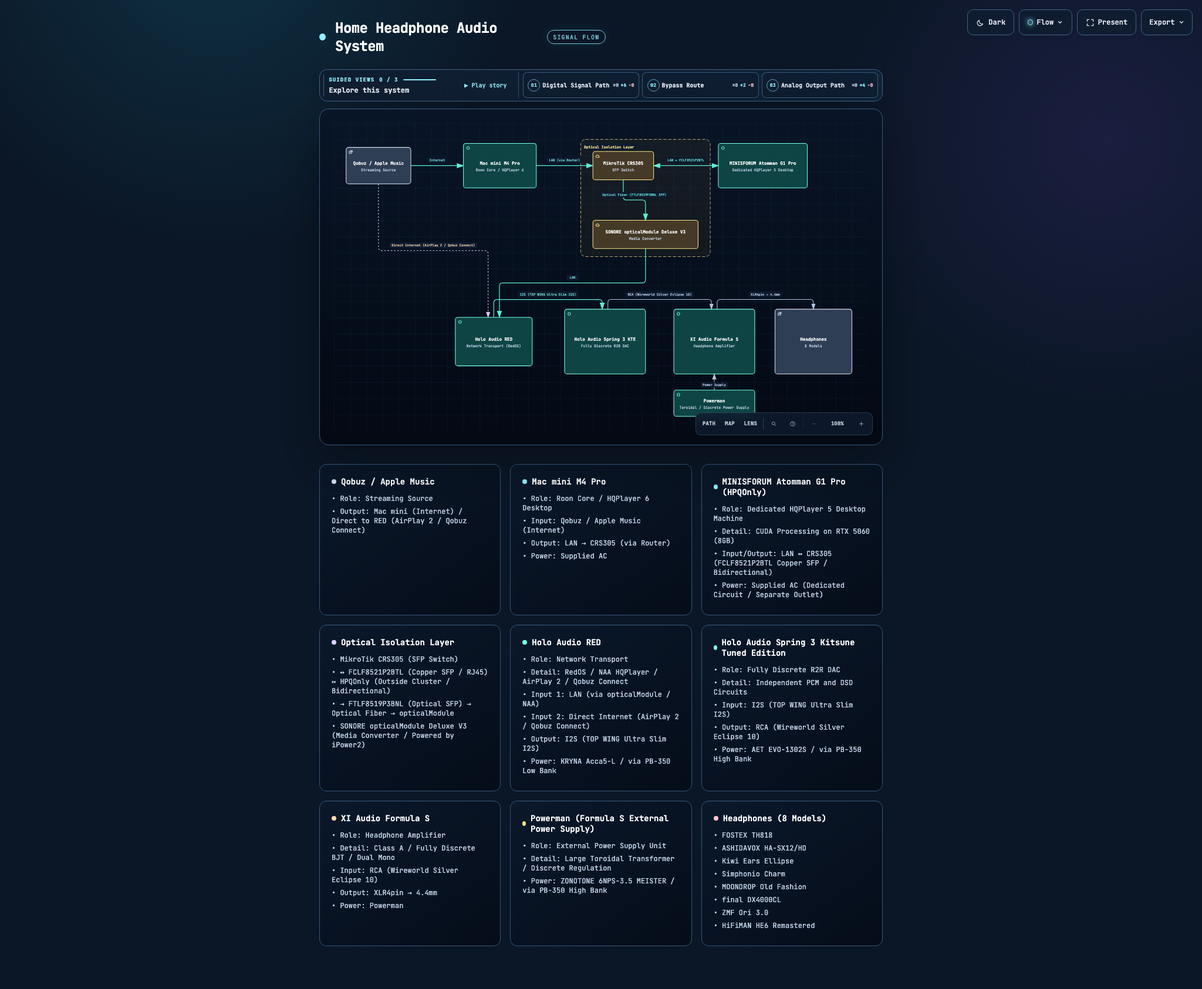
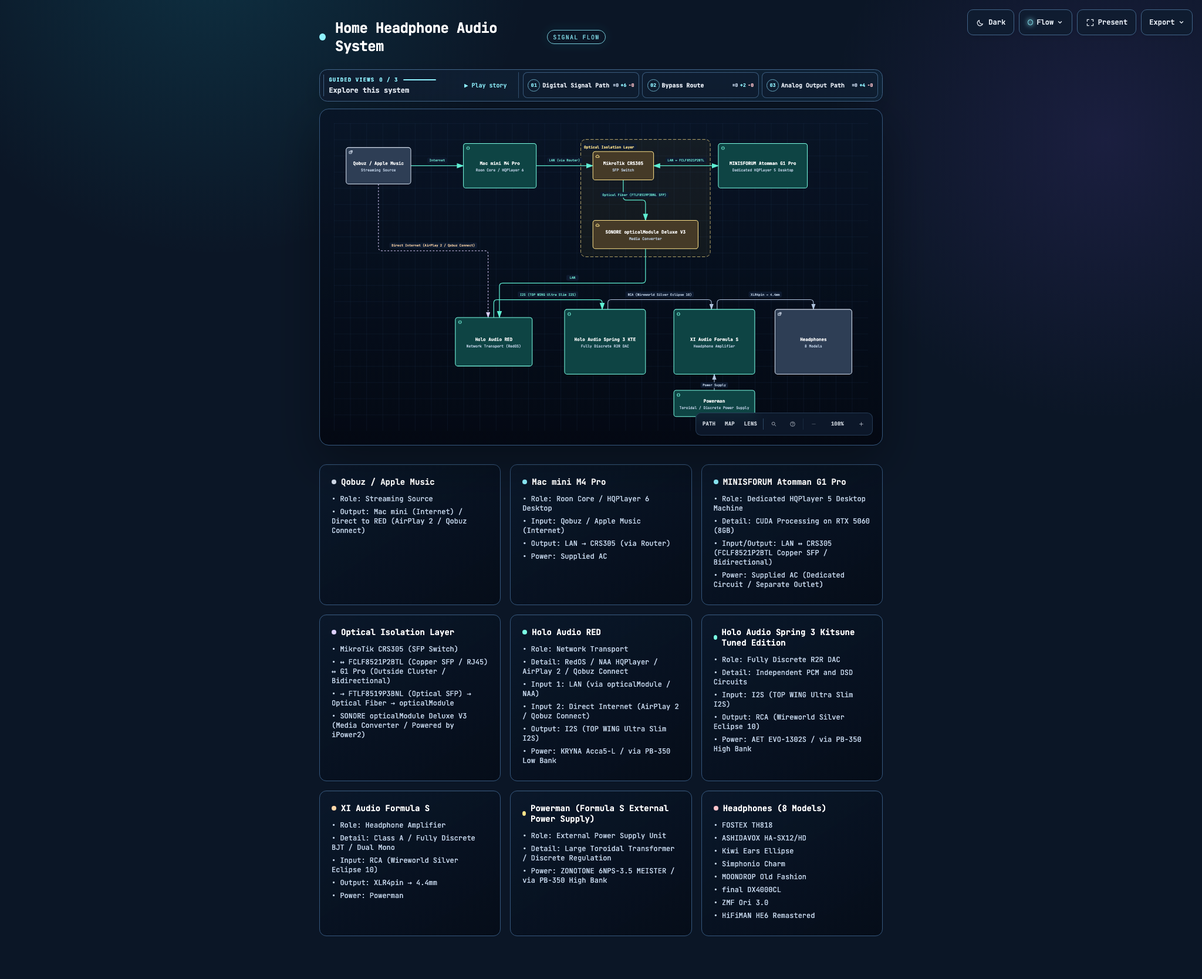
Remove HPQOnly machine name

diff --git a/index.html b/index.html
@@ -4959,7 +4959,7 @@
       </div>
     </div>
 
-    <script id="archify-guided-views-data" type="application/json">[{"id":"digital-path","label":"Digital Signal Path","focus":["macmini","crs305","hpq","optmod","red","spring3"],"note":"Digital path from the Mac mini through the CRS305, branching to HPQOnly and the RED/DAC chain"},{"id":"bypass-route","label":"Bypass Route","focus":["src","red"],"note":"The RED receives Qobuz or Apple Music directly via AirPlay 2 or Qobuz Connect; the Mac mini provides control only"},{"id":"analog-path","label":"Analog Output Path","focus":["spring3","formulas","powerman","headphones"],"note":"Analog path from the DAC through the headphone amplifier to the headphones"}]</script>
+    <script id="archify-guided-views-data" type="application/json">[{"id":"digital-path","label":"Digital Signal Path","focus":["macmini","crs305","hpq","optmod","red","spring3"],"note":"Digital path from the Mac mini through the CRS305, branching to G1 Pro and the RED/DAC chain"},{"id":"bypass-route","label":"Bypass Route","focus":["src","red"],"note":"The RED receives Qobuz or Apple Music directly via AirPlay 2 or Qobuz Connect; the Mac mini provides control only"},{"id":"analog-path","label":"Analog Output Path","focus":["spring3","formulas","powerman","headphones"],"note":"Analog path from the DAC through the headphone amplifier to the headphones"}]</script>
 
     <script id="archify-i18n-data" type="application/json">{"locale":"en","messages":{"viewer.kind.frontend":"Frontend","viewer.kind.backend":"Backend","viewer.kind.database":"Database","viewer.kind.cloud":"Cloud","viewer.kind.security":"Security","viewer.kind.messagebus":"Message bus","viewer.kind.external":"External","viewer.kind.neutral":"Neutral","viewer.kind.node":"Node","viewer.kind.start":"Start","viewer.kind.active":"Active","viewer.kind.waiting":"Waiting","viewer.kind.decision":"Decision","viewer.kind.success":"Success","viewer.kind.failure":"Failure","viewer.toolbar.actions":"Diagram actions","viewer.theme.toggle.title":"Toggle theme (T)","viewer.theme.toggle":"Toggle color theme","viewer.theme.dark":"Dark","viewer.theme.light":"Light","viewer.preset.choose.title":"Choose visual style (S cycles)","viewer.preset.choose":"Choose visual style","viewer.preset.style":"Style","viewer.preset.menu":"Visual style","viewer.preset.identity":"Visual identity","viewer.preset.cycles":"S cycles","viewer.preset.classic":"Classic","viewer.preset.classic.short":"Classic","viewer.preset.classic.hint":"Stable technical default","viewer.preset.flow":"Signal Flow","viewer.preset.flow.short":"Flow","viewer.preset.flow.hint":"Motion-forward presentation","viewer.preset.blueprint":"Blueprint","viewer.preset.blueprint.hint":"Engineering review","viewer.preset.editorial":"Editorial","viewer.preset.editorial.hint":"Publication and launch notes","viewer.preset.badge.signalFlow":"SIGNAL FLOW","viewer.preset.badge.blueprint":"BLUEPRINT / REV 01","viewer.preset.badge.editorial":"EDITORIAL / FIELD NOTE","viewer.preset.badge.editorialPlate":"ARCHIFY / PLATE 04","viewer.preset.current":"Visual style: {style}. Choose visual style","viewer.motion.live":"Live","viewer.motion.still":"Still","viewer.motion.pause":"Pause motion","viewer.motion.resume":"Resume motion","viewer.motion.reduced":"Motion paused by reduced-motion preference","viewer.motion.hidden":"Motion paused while this page is hidden","viewer.motion.yielding":"Pause motion; currently yielding to {owner}","viewer.motion.yielding.title":"Live preview enabled · yielding to {owner}","viewer.owner.story":"the guided story","viewer.owner.chapter":"the active chapter","viewer.owner.chapterPreview":"the chapter delta preview","viewer.owner.handoff":"the chapter handoff","viewer.owner.route":"Route Probe","viewer.owner.lens":"Semantic Lens","viewer.owner.relationship":"Relationship Preview","viewer.owner.intent":"Intent Trace","viewer.owner.focus":"semantic focus","viewer.owner.legend":"legend preview","viewer.owner.reader":"reader interaction","viewer.present.enter":"Enter presentation stage","viewer.present.enter.title":"Presentation stage (F)","viewer.present.exit":"Exit presentation stage","viewer.present.exit.title":"Exit presentation stage (F or Escape)","viewer.present.present":"Present","viewer.present.exit.label":"Exit","viewer.export.button":"Export","viewer.export.button.title":"Export diagram (E)","viewer.export.diagram":"Export diagram","viewer.export.menu":"Export","viewer.export.subtitle":"Portable, clean outputs","viewer.export.share":"Share","viewer.export.shareCard":"Share Card","viewer.export.routeShareCard":"Route Share Card","viewer.export.reachShareCard":"Reach Share Card","viewer.export.copyShareCard":"Copy Share Card","viewer.export.copyDiagram":"Copy diagram","viewer.export.clipboardPng":"PNG to clipboard","viewer.export.raster":"Raster images","viewer.export.image":"Image","viewer.export.lossless":"Lossless image","viewer.export.compact":"Compact image","viewer.export.modern":"Modern image","viewer.export.vectorMotion":"Vector and motion","viewer.export.vectorMotion.heading":"Vector \u0026 motion","viewer.export.editable":"Editable vector","viewer.export.motion6s":"6s motion","viewer.export.unsupported":"Not supported by this browser","viewer.export.clipboardUnsupported":"Clipboard image write not supported by this browser","viewer.export.clipboardUnsupported.period":"Clipboard image write not supported by this browser.","viewer.export.clipboardUnsupported.short":"Clipboard image write not supported in this browser.","viewer.export.motionUnavailable":"Motion capture unavailable in this browser","viewer.export.webmUnavailable":"WebM unavailable in this browser","viewer.export.failed":"Export failed: {message}","viewer.export.unknownVariant":"Unknown Share Card variant: {variant}","viewer.export.routeRequired":"Trace a route before exporting a Route Share Card","viewer.export.reachRequired":"Trace authored reach before exporting a Reach Share Card","viewer.export.unknown":"unknown","viewer.export.routeFailed":"Route Share Card export failed: {message}","viewer.export.reachFailed":"Reach Share Card export failed: {message}","viewer.export.copyFailed":"Copy failed: {message}","viewer.export.copiedPng":"Copied PNG to clipboard","viewer.export.copiedShare":"Copied Share Card","viewer.export.downloadedShare":"Downloaded Share Card","viewer.export.downloadedRoute":"Downloaded Route Share Card","viewer.export.downloadedReach":"Downloaded Reach Share Card","viewer.export.downloadedWebm":"Downloaded WebM","viewer.export.recording":"Recording 6 seconds of motion…","viewer.export.card.routeSummary.one":"Route: {source} → {target} · {count} directed hop","viewer.export.card.routeSummary.other":"Route: {source} → {target} · {count} directed hops","viewer.export.card.reachSummary":"Authored {direction} from {origin} · {nodes} · {links} · max {hops}","viewer.export.card.node.one":"{count} node","viewer.export.card.node.other":"{count} nodes","viewer.export.card.link.one":"{count} link","viewer.export.card.link.other":"{count} links","viewer.export.card.hop.one":"{count} hop","viewer.export.card.hop.other":"{count} hops","viewer.export.card.routeBadge":"ARCHIFY · ROUTE · {hops}","viewer.export.card.reachBadge":"ARCHIFY · {direction} REACH","viewer.export.card.defaultBadge":"ARCHIFY · {preset} · {theme}","viewer.export.direction.upstream":"Upstream","viewer.export.direction.downstream":"Downstream","viewer.export.error.canvasUnavailable":"Canvas unavailable for {label}","viewer.export.error.contextUnavailable":"2D canvas context unavailable for {label}","viewer.export.error.toBlobUnavailable":"canvas.toBlob unavailable for {label}","viewer.export.error.toBlobNull":"canvas.toBlob returned no data for {label}","viewer.export.error.variantsCombined":"Share Card variants cannot be combined","viewer.export.error.viewerState":"Share Card export could not remove temporary viewer state","viewer.export.error.routeState":"Route Card export could not preserve the resolved route safely","viewer.export.error.reachState":"Reach Card export could not preserve authored reach safely","viewer.export.error.webmRequirements":"WebM motion export requires a trace animation and browser MediaRecorder support","viewer.export.error.mediaRecorder":"MediaRecorder failed","viewer.export.error.emptyWebm":"MediaRecorder produced an empty WebM","viewer.export.error.webmBackground":"SVG background could not be loaded for WebM export","viewer.guided.region":"Guided diagram views","viewer.guided.previous":"Previous guided view","viewer.guided.previous.title":"Previous guided view ([)","viewer.guided.next":"Next guided view","viewer.guided.next.title":"Next guided view (])","viewer.guided.views":"Guided views","viewer.guided.explore":"Explore this system","viewer.guided.intro":"Step through curated paths without changing the source diagram.","viewer.guided.trail":"Story trail","viewer.guided.beat":"Beat","viewer.guided.nextBeat":"Next","viewer.guided.play":"Play guided story","viewer.guided.play.title":"Play guided story (P)","viewer.guided.pause":"Pause guided story","viewer.guided.pause.title":"Pause guided story (P)","viewer.guided.replay":"Replay guided story","viewer.guided.replay.title":"Replay guided story (P)","viewer.guided.playStory":"Play story","viewer.guided.pauseStory":"Pause","viewer.guided.replayStory":"Replay story","viewer.guided.motionUnavailable":"Story playback unavailable while motion is Still","viewer.guided.enableMotion":"Switch motion to Live to play the guided story","viewer.guided.selectBeatLink":"Select a Story Beat to copy its exact link","viewer.guided.copyMoment":"Copy moment","viewer.guided.momentCopied":"Moment link copied","viewer.guided.momentCopyFailed":"Could not copy story moment link","viewer.guided.copied":"Copied","viewer.guided.copyFailed":"Copy failed","viewer.guided.showAll":"Show all","viewer.guided.showAll.aria":"Show entire diagram","viewer.guided.chapters":"Story chapters","viewer.guided.storyTrail":"Story trail for {label}: {count} beats","viewer.guided.chapter.open":"Open chapter {index} of {total}: {label}, {count} stops","viewer.guided.chapter.current":"Current chapter {index} of {total}: {label}, {count} stops","viewer.guided.chapter.selectedNodes":"{count} selected nodes","viewer.guided.chapter.stops":"{count} stops","viewer.guided.chapter.stop.one":"{count} stop","viewer.guided.chapter.stop.other":"{count} stops","viewer.guided.chapter.current.title":"{label} — current chapter, {count} stops","viewer.guided.chapter.delta.expanded":"{stay} stay, {enter} enter, {leave} leave","viewer.guided.chapter.delta.aria":"Open chapter {index} of {total}: {label}. Chapter focus delta: {delta}","viewer.guided.chapter.delta.title":"{label} — {delta} chapter focus","viewer.guided.handoff":"{from} → {to} · via {label}","viewer.guided.share.chapter":"Chapter {index} / {total}","viewer.guided.share.initial":"Chapter 01 / 01","viewer.guided.share.default":"Guided chapter","viewer.guided.state.ready":"Ready","viewer.guided.state.playing":"Playing","viewer.guided.state.settled":"Settled","viewer.guided.state.paused":"Paused","viewer.guided.state.pinned":"Pinned","viewer.guided.state.still":"Still","viewer.guided.share.step":"Step {index} / {total} · {label}","viewer.guided.share.staticMoment":"{step} · Static moment","viewer.guided.share.complete":"{count} steps complete · {note}","viewer.guided.share.settled":"Path settled for reading.","viewer.guided.share.staticPath":"{count} steps · Static path","viewer.guided.share.ready":"{count} steps · Ready","viewer.guided.share.aria":"{state} chapter {index} of {total}: {label}. {beat}. {route}","viewer.guided.beat.start":"Beat {index} / {total} · {label} · starting point","viewer.guided.beat.forward":"Beat {index} / {total} · {from} → {to}","viewer.guided.beat.reverse":"Beat {index} / {total} · {from} → {to} · reverse authored link","viewer.guided.beat.multiple":"Beat {index} / {total} · {from} ⇄ {to} · {count} authored links","viewer.guided.beat.group":"Beat {index} / {total} · {from} · {to} · grouped · no direct link","viewer.guided.beat.aria.prefix":"Story beat {index} of {total}: {label}. ","viewer.guided.beat.aria.start":"Starting point.","viewer.guided.beat.aria.forward":"From {from} through one authored forward relationship.","viewer.guided.beat.aria.reverse":"From {from}; the authored relationship points from {to} to {from}.","viewer.guided.beat.aria.multiple":"From {from} through {count} authored relationships; shown without arbitrary motion.","viewer.guided.beat.aria.group":"Grouped from {from} with no direct authored relationship.","viewer.guided.caption.start":"Starting point","viewer.guided.caption.grouped":"Grouped transition · no direct authored link","viewer.guided.caption.more":" +{count} more","viewer.guided.caption.reverse":"Reverse authored relationship","viewer.guided.caption.relationships":"{count} authored relationships","viewer.guided.caption.relationship":"Authored relationship","viewer.guided.caption.direction":"authored direction: {from} → {to}","viewer.guided.caption.starting":"Authored starting point","viewer.guided.beatLink":"Copy link to current story moment: Beat {index} of {total}: {label}","viewer.guided.noStory":"This diagram has no authored guided story.","viewer.guide.eyebrow":"Diagram guide","viewer.guide.close":"Close diagram guide","viewer.guide.inspecting":"Inspecting compiled semantics","viewer.guide.actions":"Diagram exploration actions","viewer.guide.find":"Find any node","viewer.guide.find.hint":"Search labels, responsibilities, kinds, and stable IDs.","viewer.guide.route":"Trace a route","viewer.guide.route.aria":"Trace a directed route","viewer.guide.route.hint":"Ask how two semantic nodes connect in authored direction.","viewer.guide.map":"See the whole system","viewer.guide.map.hint":"Open Semantic Radar with a live viewport and stable nodes.","viewer.guide.lens":"Compare semantic kinds","viewer.guide.lens.hint":"Count roles, reveal their traffic, and compare direct authored links.","viewer.guide.story":"Play the guided story","viewer.guide.story.hint":"Walk the authored chapters and real relationships.","viewer.guide.present":"Enter Presentation Stage","viewer.guide.present.hint":"Give the live diagram the viewport without changing export.","viewer.guide.shortcuts":"Additional keyboard shortcuts","viewer.guide.shortcut.export":"Export","viewer.guide.shortcut.theme":"Theme","viewer.guide.shortcut.style":"Style","viewer.guide.shortcut.reset":"Reset","viewer.guide.shortcut.zoomIn":"Zoom in","viewer.guide.shortcut.zoomOut":"Zoom out","viewer.guide.shortcut.close":"Close","viewer.guide.facts":"{nodes} · {relationships} · {views}","viewer.guide.fact.node.one":"{count} semantic node","viewer.guide.fact.node.other":"{count} semantic nodes","viewer.guide.fact.relationship.one":"{count} relationship","viewer.guide.fact.relationship.other":"{count} relationships","viewer.guide.fact.view.one":"{count} guided view","viewer.guide.fact.view.other":"{count} guided views","viewer.guide.story.available.one":"Walk {count} authored chapter and its real relationships.","viewer.guide.story.available.other":"Walk {count} authored chapters and their real relationships.","viewer.guide.story.unavailable":"No authored guided story in this diagram.","viewer.guide.open":"Open diagram guide","viewer.guide.noStory":"This diagram has no authored guided story.","viewer.finder.title":"Find a node","viewer.finder.close":"Close node finder","viewer.finder.placeholder":"Search labels or IDs","viewer.finder.search":"Search diagram nodes","viewer.finder.results":"Diagram nodes","viewer.finder.empty":"No matching nodes","viewer.finder.result.focus":"Focus {label}","viewer.finder.result.routeStart":"Choose {label} as route start","viewer.finder.result.routeTarget":"Choose {label} as route destination, {links}","viewer.finder.status.empty":"No matching nodes","viewer.finder.status.count.one":"{count} matching node","viewer.finder.status.count.other":"{count} matching nodes","viewer.finder.noun.nodes":"nodes","viewer.finder.link.one":"{count} link","viewer.finder.link.other":"{count} links","viewer.finder.result.focus.one":"Focus {label}, {count} related connection","viewer.finder.result.focus.other":"Focus {label}, {count} related connections","viewer.finder.status.filtered":"{visible} of {available} {noun}","viewer.finder.status.all":"{available} {noun}","viewer.passport.eyebrow":"Semantic passport","viewer.passport.metadata":"Node metadata","viewer.passport.evidence":"Verified source evidence","viewer.passport.verified":"Verified source","viewer.passport.reach":"Authored reach","viewer.passport.reach.trace":"Trace authored reachability","viewer.passport.upstream":"Upstream","viewer.passport.downstream":"Downstream","viewer.passport.upstream.trace":"Trace upstream authored reachability","viewer.passport.downstream.trace":"Trace downstream authored reachability","viewer.passport.close":"Close semantic passport","viewer.passport.copy":"Copy link","viewer.passport.copy.focus":"Copy link to focused node","viewer.passport.relations":"Relations","viewer.passport.relations.show":"Show connected relationships","viewer.passport.relations.hide":"Hide connected relationships","viewer.passport.relations.list":"Connected relationships","viewer.passport.copyRelation":"Copy relation","viewer.passport.copyNode":"Copy node","viewer.passport.copyPinned":"Copy link to pinned relationship","viewer.passport.copySource":"Copy link to source node","viewer.passport.copy.focused.success":"Focused node link copied","viewer.passport.copy.pinned.success":"Pinned relationship link copied","viewer.passport.copy.focused.failed":"Could not copy focused node link","viewer.passport.copy.pinned.failed":"Could not copy pinned relationship link","viewer.passport.relationship.none":"No connected relationships","viewer.passport.relationship.count.one":"{count} relation","viewer.passport.relationship.count.other":"{count} relations","viewer.passport.relationship.show.one":"Show {count} connected relationship","viewer.passport.relationship.show.other":"Show {count} connected relationships","viewer.passport.relationship.summary":"{out} outgoing · {in} incoming{loops}","viewer.passport.relationship.loops":" · {count} loop","viewer.passport.relationship.explorer":"Direct relationship explorer","viewer.passport.relationship.help":"Use arrow keys to explore relationships. Press Enter or Space to pin details; Escape clears.","viewer.passport.relationship.loopsBack":"loops back","viewer.passport.relationship.connectsTo":"connects to","viewer.passport.relationship.connectsFrom":"connects from","viewer.passport.relationship.pinned":"Pinned relationship · {from} → {to} · {label}","viewer.passport.relationship.inspect":"Inspect relationship {index} of {total}: {from} to {to}, {label}. Press Enter for details.","viewer.passport.relationship.group.out":"Outgoing","viewer.passport.relationship.group.in":"Incoming","viewer.passport.relationship.group.loop":"Self loops","viewer.passport.relationship.row":"{group}: {relationship}, {neighbor}","viewer.passport.relationship.direction.out":"OUT →","viewer.passport.relationship.direction.in":"← IN","viewer.passport.relationship.direction.loop":"LOOP","viewer.passport.sourceCount.one":"{count} verified source reference","viewer.passport.sourceCount.other":"{count} verified source references","viewer.passport.sourceMarker":"SRC","viewer.passport.beacon.one":"{count} verified source; focus this node to inspect","viewer.passport.beacon.other":"{count} verified sources; focus this node to inspect","viewer.passport.repository.open":"Open verified repository revision {revision}","viewer.passport.source.open":"Open verified source {path} at revision {revision}","viewer.passport.source.openLink":"Open ↗","viewer.passport.reach.upstream.one":"Trace {count} upstream authored node","viewer.passport.reach.upstream.other":"Trace {count} upstream authored nodes","viewer.passport.reach.downstream.one":"Trace {count} downstream authored node","viewer.passport.reach.downstream.other":"Trace {count} downstream authored nodes","viewer.passport.reach.noUpstream":"No upstream authored nodes","viewer.passport.reach.noDownstream":"No downstream authored nodes","viewer.passport.reach.status":"{direction} · {nodes} nodes · {links} links · max {hops} hops","viewer.route.eyebrow":"Route probe","viewer.route.start":"Choose a start node","viewer.route.start.find":"Find start","viewer.route.start.find.aria":"Find a route start","viewer.route.copy":"Copy link","viewer.route.copy.aria":"Copy link to traced route","viewer.route.clear":"Clear","viewer.route.clear.aria":"Clear route probe","viewer.route.traced":"Traced route","viewer.route.pickTwo":"Pick two semantic nodes on the diagram","viewer.route.pickOne":"Pick a semantic node on the diagram","viewer.route.controls":"Route journey controls","viewer.route.previous":"Previous route position","viewer.route.play":"Play route journey","viewer.route.pause":"Pause route journey","viewer.route.replay":"Replay route journey","viewer.route.next":"Next route position","viewer.route.journey":"Journey","viewer.route.pause.label":"Pause","viewer.route.replay.label":"Replay","viewer.route.overview":"Overview","viewer.route.overview.aria":"Show complete route overview","viewer.route.instructions":"Choose the source, then the destination. Direction matters.","viewer.route.destination":"Choose a destination from {label}","viewer.route.destination.find":"Find target","viewer.route.destination.find.aria":"Find a reachable route destination","viewer.route.differentDestination":"Choose a different destination","viewer.route.distinct":"A route needs two distinct semantic nodes.","viewer.route.unreachable":"No directed route to {label}","viewer.route.unreachable.detail":"{target} is not reachable from {source}. Pick a highlighted destination.","viewer.route.start.instructions":"Select the source. The next step will reveal only directed destinations.","viewer.route.copy.success":"Traced route link copied","viewer.route.copy.failed":"Could not copy traced route link","viewer.route.position":"Route position {index} of {total}: {label}","viewer.route.step":"Step {index} of {total} · {phase} · {label}","viewer.route.motionRequired":"Automatic journey requires Live motion","viewer.route.trigger.clear":"Clear traced route","viewer.route.overview.status":"{nodes} · {hops} · shortest authored route","viewer.route.overview.node.one":"{count} node","viewer.route.overview.node.other":"{count} nodes","viewer.route.overview.hop.one":"{count} directed hop","viewer.route.overview.hop.other":"{count} directed hops","viewer.route.phase.playing":"Playing","viewer.route.phase.complete":"Complete","viewer.route.phase.inspecting":"Inspecting","viewer.route.destination.count.one":"{count} directed destination available. Pick a highlighted node.","viewer.route.destination.count.other":"{count} directed destinations available. Pick a highlighted node.","viewer.route.noOutgoing":"No outgoing route starts here. Clear and choose another source.","viewer.route.result.title":"{source} to {target}","viewer.route.finder.source.title":"Choose route start","viewer.route.finder.source.placeholder":"Search route sources","viewer.route.finder.source.empty":"No matching route sources","viewer.route.finder.source.results":"Nodes that can start a route","viewer.route.finder.source.noun":"route sources","viewer.route.finder.source.badge":"start","viewer.route.finder.target.title":"Destination from {label}","viewer.route.finder.target.placeholder":"Search reachable destinations","viewer.route.finder.target.empty":"No matching reachable destinations","viewer.route.finder.target.results":"Reachable route destinations","viewer.route.finder.target.noun":"reachable destinations","viewer.route.hop.one":"{count} hop","viewer.route.hop.other":"{count} hops","viewer.lens.eyebrow":"Semantic lens","viewer.lens.title":"Compare system roles","viewer.lens.close":"Close semantic lens","viewer.lens.instruction":"Choose up to two semantic kinds. One reveals its real traffic; two compare only direct authored relationships.","viewer.lens.kinds":"Semantic kinds","viewer.lens.choose":"Choose a kind to inspect its nodes and touching relationships.","viewer.lens.copy":"Copy link to semantic lens","viewer.lens.clear":"Clear semantic lens","viewer.lens.open":"Open semantic lens","viewer.lens.openActive":"Open active semantic lens","viewer.lens.legend":"Semantic legend","viewer.lens.legend.inspect.one":"Inspect {label}, {count} node","viewer.lens.legend.inspect.other":"Inspect {label}, {count} nodes","viewer.lens.kind.count.one":"{label}, {count} node","viewer.lens.kind.count.other":"{label}, {count} nodes","viewer.lens.compare.one":"{first} → {second}: {forward} · {second} → {first}: {reverse} · {count} direct relationship","viewer.lens.compare.other":"{first} → {second}: {forward} · {second} → {first}: {reverse} · {count} direct relationships","viewer.lens.single":"{nodes} · {relationships} · connected peers remain visible","viewer.lens.node.one":"{count} {label} node","viewer.lens.node.other":"{count} {label} nodes","viewer.lens.relationship.one":"{count} touching relationship","viewer.lens.relationship.other":"{count} touching relationships","viewer.radar.title":"Semantic radar","viewer.radar.building":"Building overview","viewer.radar.openFull":"Open full semantic radar","viewer.radar.open":"Open radar","viewer.radar.close":"Close semantic radar","viewer.radar.surface":"Diagram overview. Click a node to focus it, or use arrow keys to pan.","viewer.radar.click":"Click node","viewer.radar.drag":"Drag to pan","viewer.radar.space":"Semantic radar needs more MAP space.","viewer.radar.nodes":"Semantic diagram radar nodes","viewer.radar.focus":"Focus {label} from Semantic Radar","viewer.radar.status":"{count} nodes · {viewport}","viewer.radar.fullMap":"{count} nodes · full map","viewer.radar.compacted":"Radar compacted to avoid covering the Semantic Passport or MAP controls.","viewer.radar.cancelWaiting":"Cancel semantic radar waiting for more MAP space","viewer.radar.needsSpace":"Semantic radar needs more visible MAP space","viewer.radar.viewport.full":"full map","viewer.radar.viewport.width":"{percent}% width","viewer.radar.viewport.scale":"{percent}% viewport","viewer.nav.controls":"Diagram view controls","viewer.nav.route":"Trace a directed route","viewer.nav.route.title":"Trace route (R)","viewer.nav.route.short":"PATH","viewer.nav.radar":"Open semantic radar","viewer.nav.radar.title":"Semantic radar (M)","viewer.nav.radar.short":"MAP","viewer.nav.lens":"Open semantic lens","viewer.nav.lens.title":"Semantic lens (L)","viewer.nav.lens.short":"LENS","viewer.nav.find":"Find a node","viewer.nav.find.title":"Find a node (/)","viewer.nav.guide":"Open diagram guide","viewer.nav.guide.title":"Diagram guide (?)","viewer.nav.zoomOut":"Zoom out","viewer.nav.zoomOut.title":"Zoom out (-)","viewer.nav.reset":"Reset diagram view","viewer.nav.reset.title":"Reset view (0)","viewer.nav.read":"READ","viewer.nav.zoomIn":"Zoom in","viewer.nav.zoomIn.title":"Zoom in (+)","viewer.nav.camera":"{hint}. Reset diagram view","viewer.nav.camera.title":"{semantic}{hint} · reset view (0)","viewer.nav.camera.semantic":"Semantic camera active · ","viewer.nav.level.map":"MAP","viewer.nav.level.read":"READ","viewer.nav.level.full":"FULL","viewer.nav.level.auto":"AUTO","viewer.nav.detail.map":"Zoom in to reveal relationship labels and node context","viewer.nav.detail.read":"Zoom in again to reveal tags and annotations","viewer.nav.detail.full":"Full diagram detail","viewer.intent.summary":"{label}. {out} outgoing, {in} incoming{loops}. {total} connections. Press Enter for details.","viewer.intent.loops":", {count} self loop","viewer.common.copied":"Copied","viewer.common.copyFailed":"Copy failed","viewer.common.copyLink":"Copy link","viewer.common.clear":"Clear","viewer.common.close":"Close"}}</script>
     <div class="guided-views no-print" id="guided-views" hidden aria-label="Guided diagram views">
@@ -5430,7 +5430,7 @@
       <div class="card">
         <div class="card-header">
           <div class="card-dot cyan"></div>
-          <h3>MINISFORUM Atomman G1 Pro (HPQOnly)</h3>
+          <h3>MINISFORUM Atomman G1 Pro</h3>
         </div>
         <ul>
           <li>&bull; Role: Dedicated HQPlayer 5 Desktop Machine</li>
@@ -5447,7 +5447,7 @@
         </div>
         <ul>
           <li>&bull; MikroTik CRS305 (SFP Switch)</li>
-          <li>&bull; ↔ FCLF8521P2BTL (Copper SFP / RJ45) ↔ HPQOnly (Outside Cluster / Bidirectional)</li>
+          <li>&bull; ↔ FCLF8521P2BTL (Copper SFP / RJ45) ↔ G1 Pro (Outside Cluster / Bidirectional)</li>
           <li>&bull; → FTLF8519P3BNL (Optical SFP) → Optical Fiber → opticalModule</li>
           <li>&bull; SONORE opticalModule Deluxe V3 (Media Converter / Powered by iPower2)</li>
         </ul>
